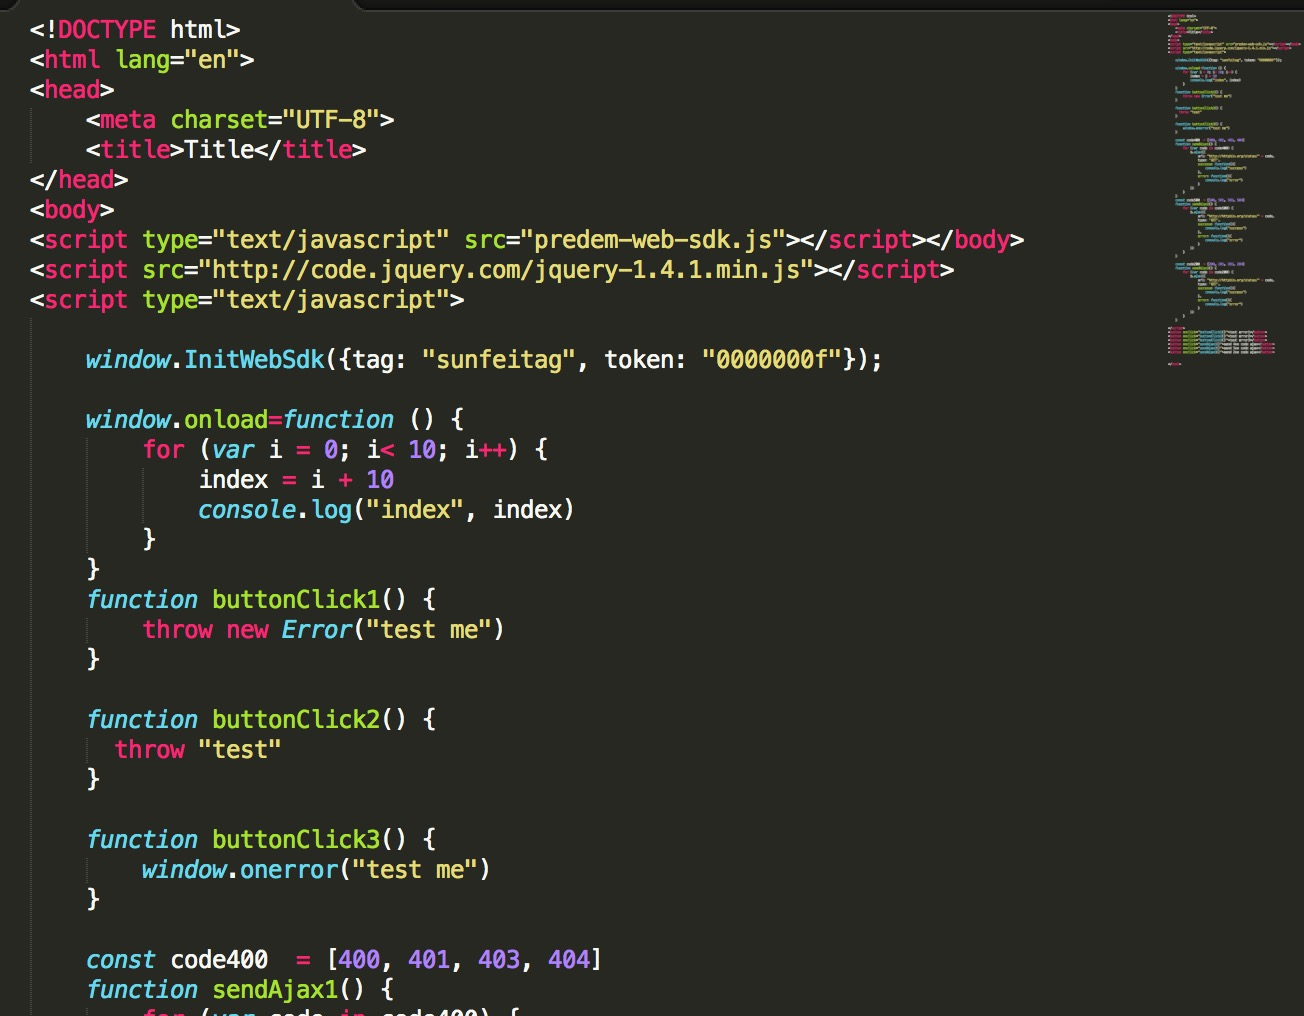
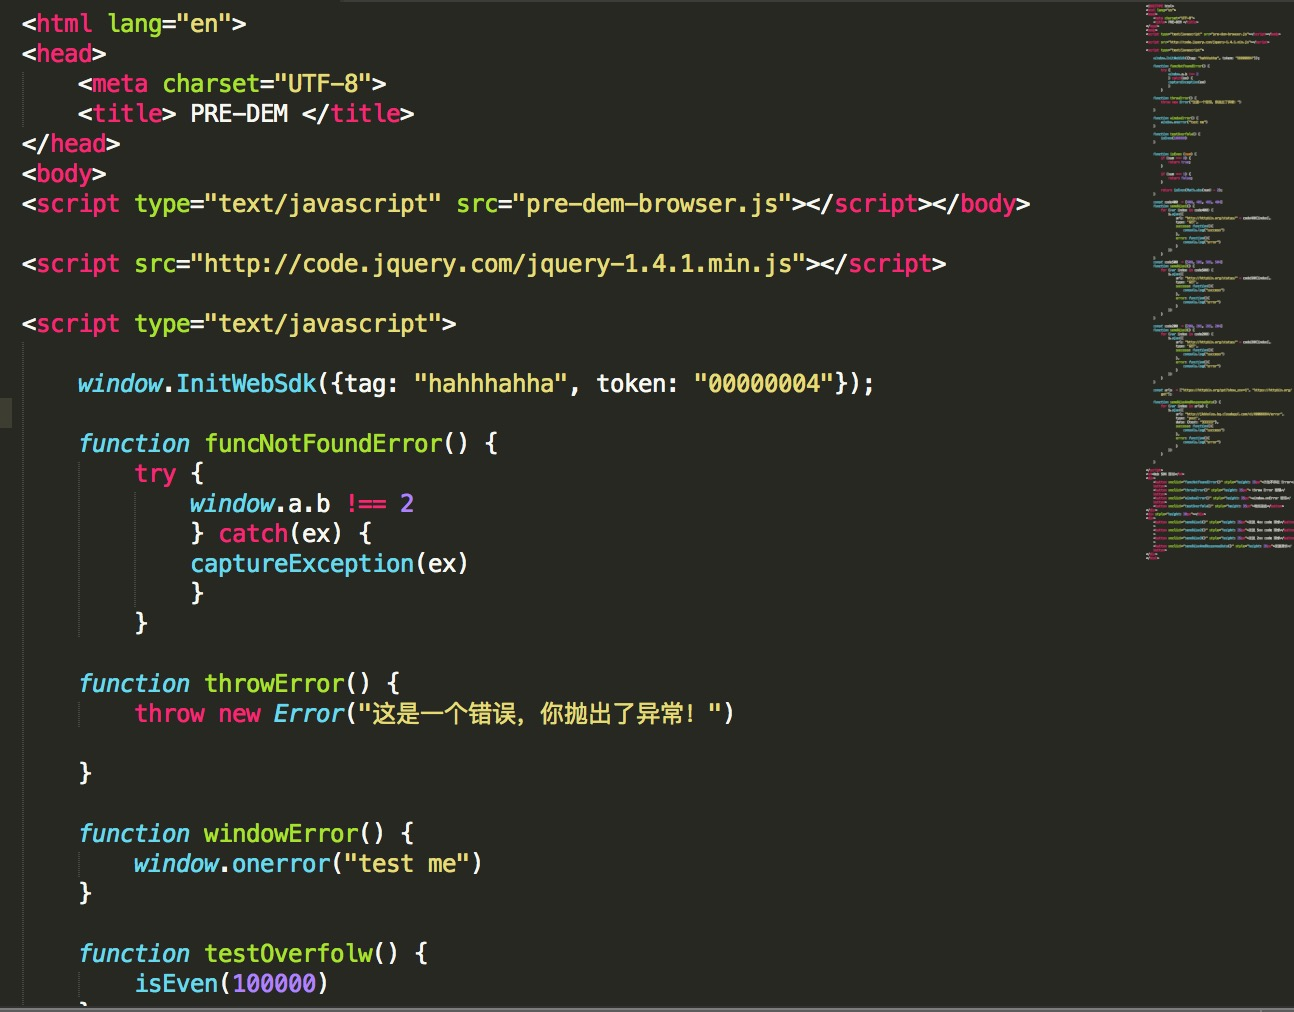
update sdk name

diff --git a/quickstart/web-sdk.md b/quickstart/web-sdk.md
@@ -1,6 +1,6 @@
 ## 简介
 
-pre-dem-web-sdk 是一款 JavaScript 端无埋点统计工具。几乎可以在 0 配置的情况下前端报错监控、Ajax 请求的记录等功能。
+pre-dem-browser 是一款 JavaScript 端无埋点统计工具。几乎可以在 0 配置的情况下前端报错监控、Ajax 请求的记录等功能。
 
 
 ## 功能
@@ -14,7 +14,7 @@ pre-dem-web-sdk 是一款 JavaScript 端无埋点统计工具。几乎可以在 
 ## 快速集成
 首先请根据[创建第一个 App](quickstart/init)的步骤获取 App 的 `App Key`
 
-将 predem-web-sdk.js 文件引入到你需要的 html 页面中， 然后初始化 SDK.
+将 pre-dem-browser.js 文件引入到你需要的 html 页面中， 然后初始化 SDK.
 
 ![](_media/websdk-init.png)
 
@@ -22,7 +22,7 @@ pre-dem-web-sdk 是一款 JavaScript 端无埋点统计工具。几乎可以在 
 
 - 引入 js 文件
 ```
-    <script type="text/javascript" src="predem-web-sdk.js"></script>
+    <script type="text/javascript" src="pre-dem-browser.js"></script>
 ```
 
 - 初始化
